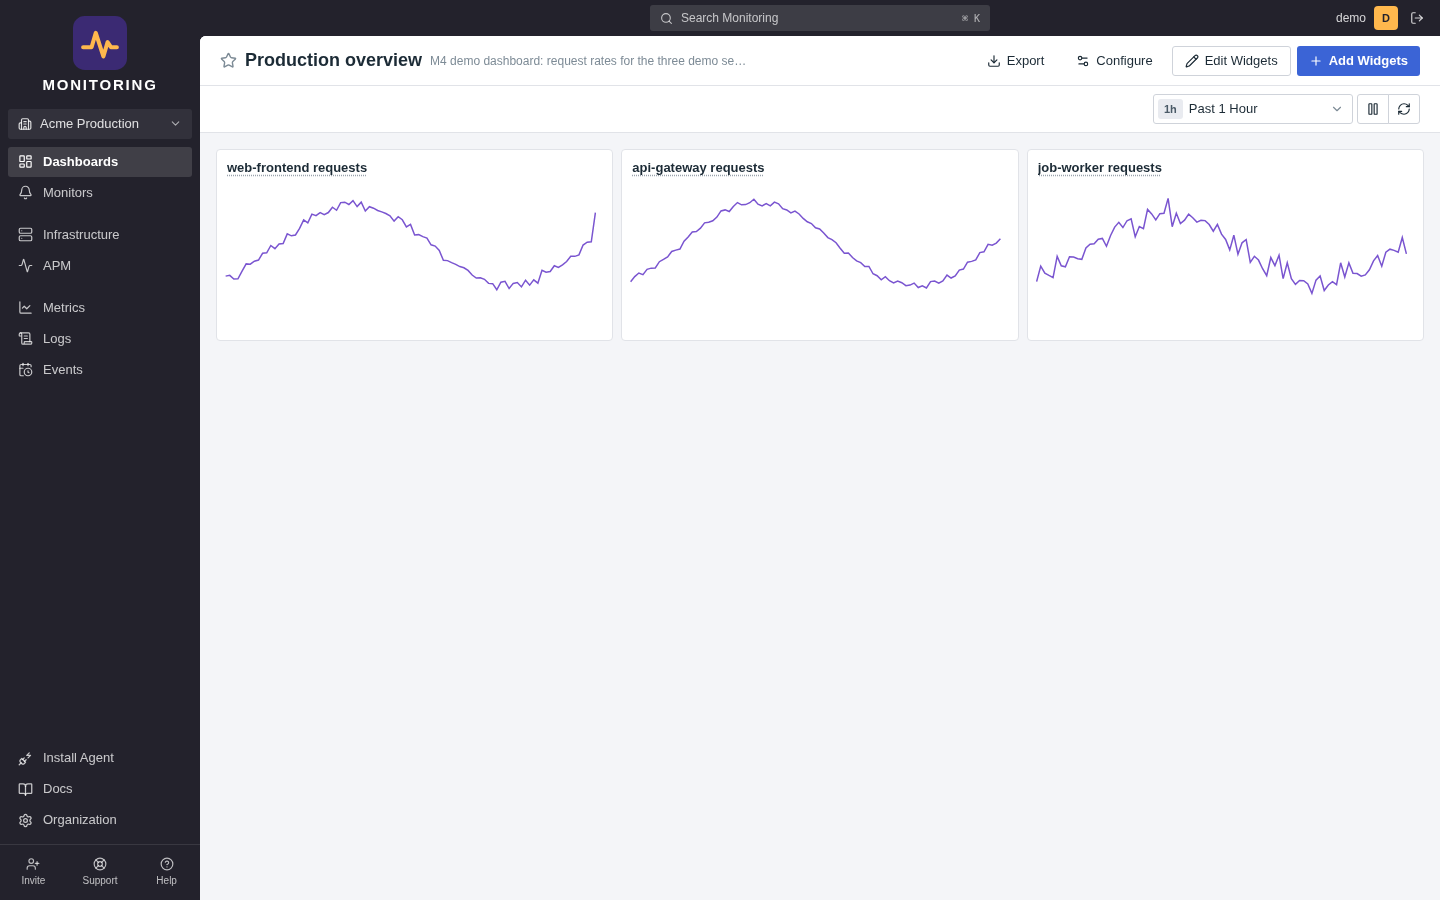
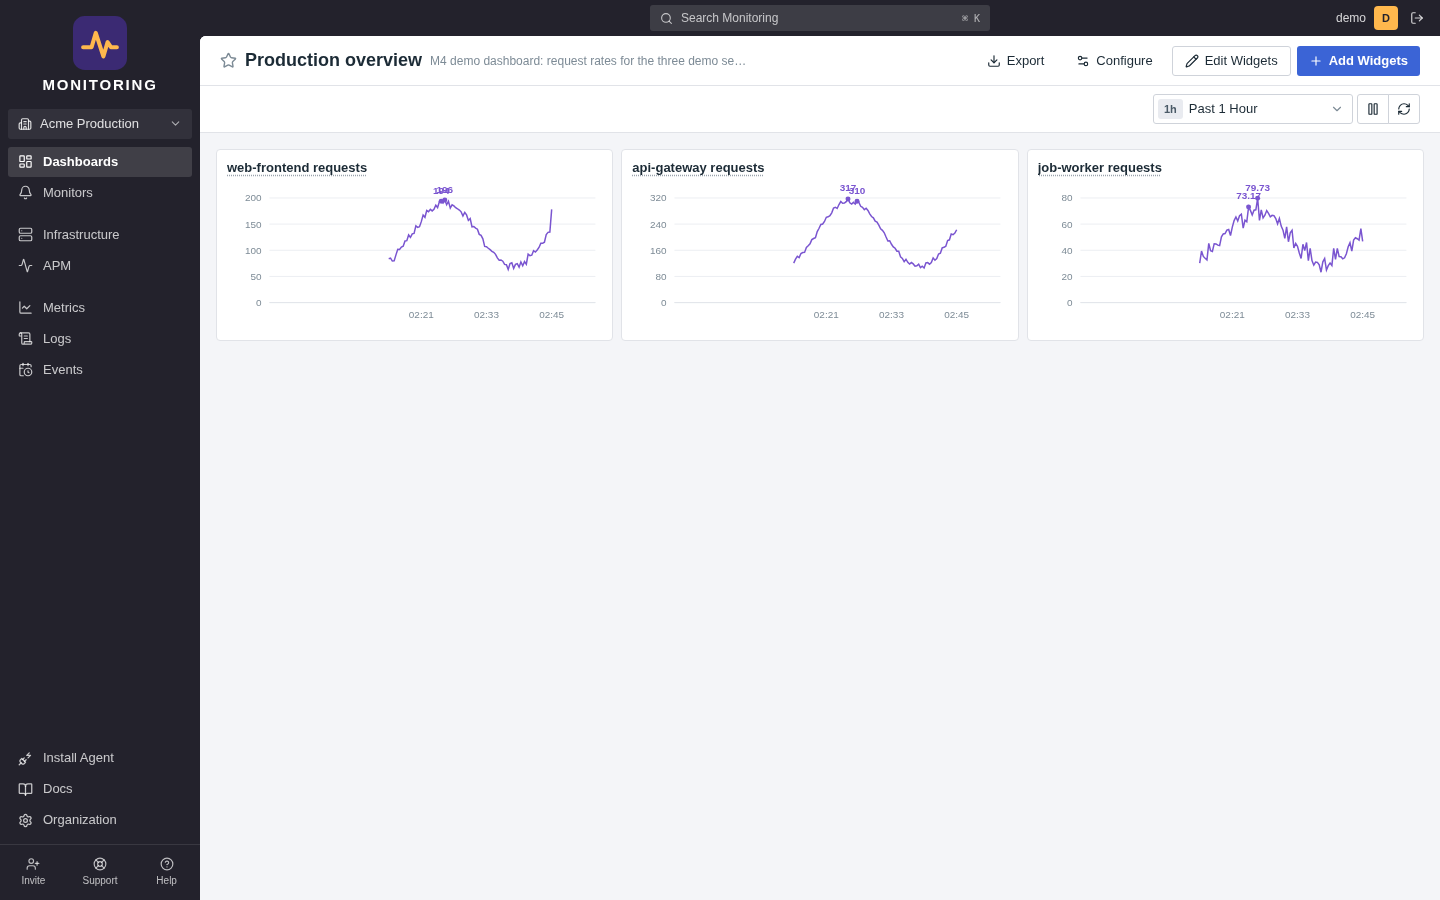
Fix charts rendering without axes: pass axis elements as array, not fragment
Dashboard/monitor charts rendered curves with no XAxis/YAxis/grid/tooltip.
With React 19 + recharts 2.15.4, children passed as a single JSX fragment
were not enumerated by recharts' child detection, so every axis element was
dropped. Building the elements as a plain array restores enumeration.

DOM-verified (bench/evidence/demo/chart-axes-dom-check.json): xAxis/yAxis
nodes, grid, tick values and tooltip now present; screenshots re-captured
and visually inspected.

Also adds span_stats double-count fix evidence: old build fails the
correctness bench with exactly 2x hits (negative control), fixed build
passes 10/10.

diff --git a/artifacts/web/src/components/Chart.tsx b/artifacts/web/src/components/Chart.tsx
@@ -88,9 +88,8 @@ export function TimeseriesChart({
     data,
     margin: { top: 6, right: 8, left: 0, bottom: 0 },
   };
-  const axes = (
-    <>
-      <CartesianGrid stroke="#eceef2" strokeDasharray="0" vertical={false} />
+  const axesEls = [
+      <CartesianGrid key="grid" stroke="#eceef2" strokeDasharray="0" vertical={false} />,
       <XAxis
         dataKey="t"
         type="number"
@@ -101,16 +100,16 @@ export function TimeseriesChart({
         axisLine={{ stroke: "#e2e5ea" }}
         tickLine={false}
         minTickGap={40}
-      />
-      <YAxis tickFormatter={(v) => yFormat(v)} tick={{ fontSize: 10, fill: "#7d8b96" }} axisLine={false} tickLine={false} width={44} />
+      />,
+      <YAxis key="y" tickFormatter={(v) => yFormat(v)} tick={{ fontSize: 10, fill: "#7d8b96" }} axisLine={false} tickLine={false} width={44} />,
       <Tooltip
         isAnimationActive={false}
         labelFormatter={(t) => fmtTime(Number(t), true)}
         formatter={(v: any, name: any) => [yFormat(Number(v)), keys.find((k) => k.key === name)?.label ?? name]}
         contentStyle={{ fontSize: 11, padding: "6px 8px", borderRadius: 4, border: "1px solid #e2e5ea" }}
         itemStyle={{ padding: 0 }}
-      />
-      {thresholds?.map((th, i) => (
+      />,
+      ...(thresholds?.map((th, i) => (
         <ReferenceLine
           key={i}
           y={th.value}
@@ -118,27 +117,26 @@ export function TimeseriesChart({
           strokeDasharray="4 3"
           label={th.label ? { value: th.label, fontSize: 10, fill: th.color, position: "insideTopRight" } : undefined}
         />
-      ))}
-      {thresholds
-        ?.filter((t) => t.above !== undefined)
+      )) ?? []),
+      ...((thresholds ?? [])
+        .filter((t) => t.above !== undefined)
         .map((th, i) => (
           <ReferenceArea key={`a${i}`} y1={th.above ? th.value : undefined} y2={th.above ? undefined : th.value} fill={th.color} fillOpacity={0.06} />
-        ))}
-    </>
-  );
+        ))),
+  ];
   return (
     <div style={{ height }} className="w-full">
       <ResponsiveContainer width="100%" height={showLegend ? "82%" : "100%"}>
         {type === "bars" ? (
           <BarChart {...common}>
-            {axes}
+            {axesEls}
             {keys.map((k) => (
               <Bar key={k.key} dataKey={k.key} fill={k.color} stackId={stacked ? "a" : undefined} isAnimationActive={false} />
             ))}
           </BarChart>
         ) : type === "area" ? (
           <AreaChart {...common}>
-            {axes}
+            {axesEls}
             {keys.map((k) => (
               <Area
                 key={k.key}
@@ -156,7 +154,7 @@ export function TimeseriesChart({
           </AreaChart>
         ) : (
           <LineChart {...common} margin={{ top: peakPts.length ? 16 : 6, right: 8, left: 0, bottom: 0 }}>
-            {axes}
+            {axesEls}
             {keys.map((k) => (
               <Line key={k.key} dataKey={k.key} stroke={k.color} strokeWidth={1.5} dot={false} isAnimationActive={false} connectNulls />
             ))}
